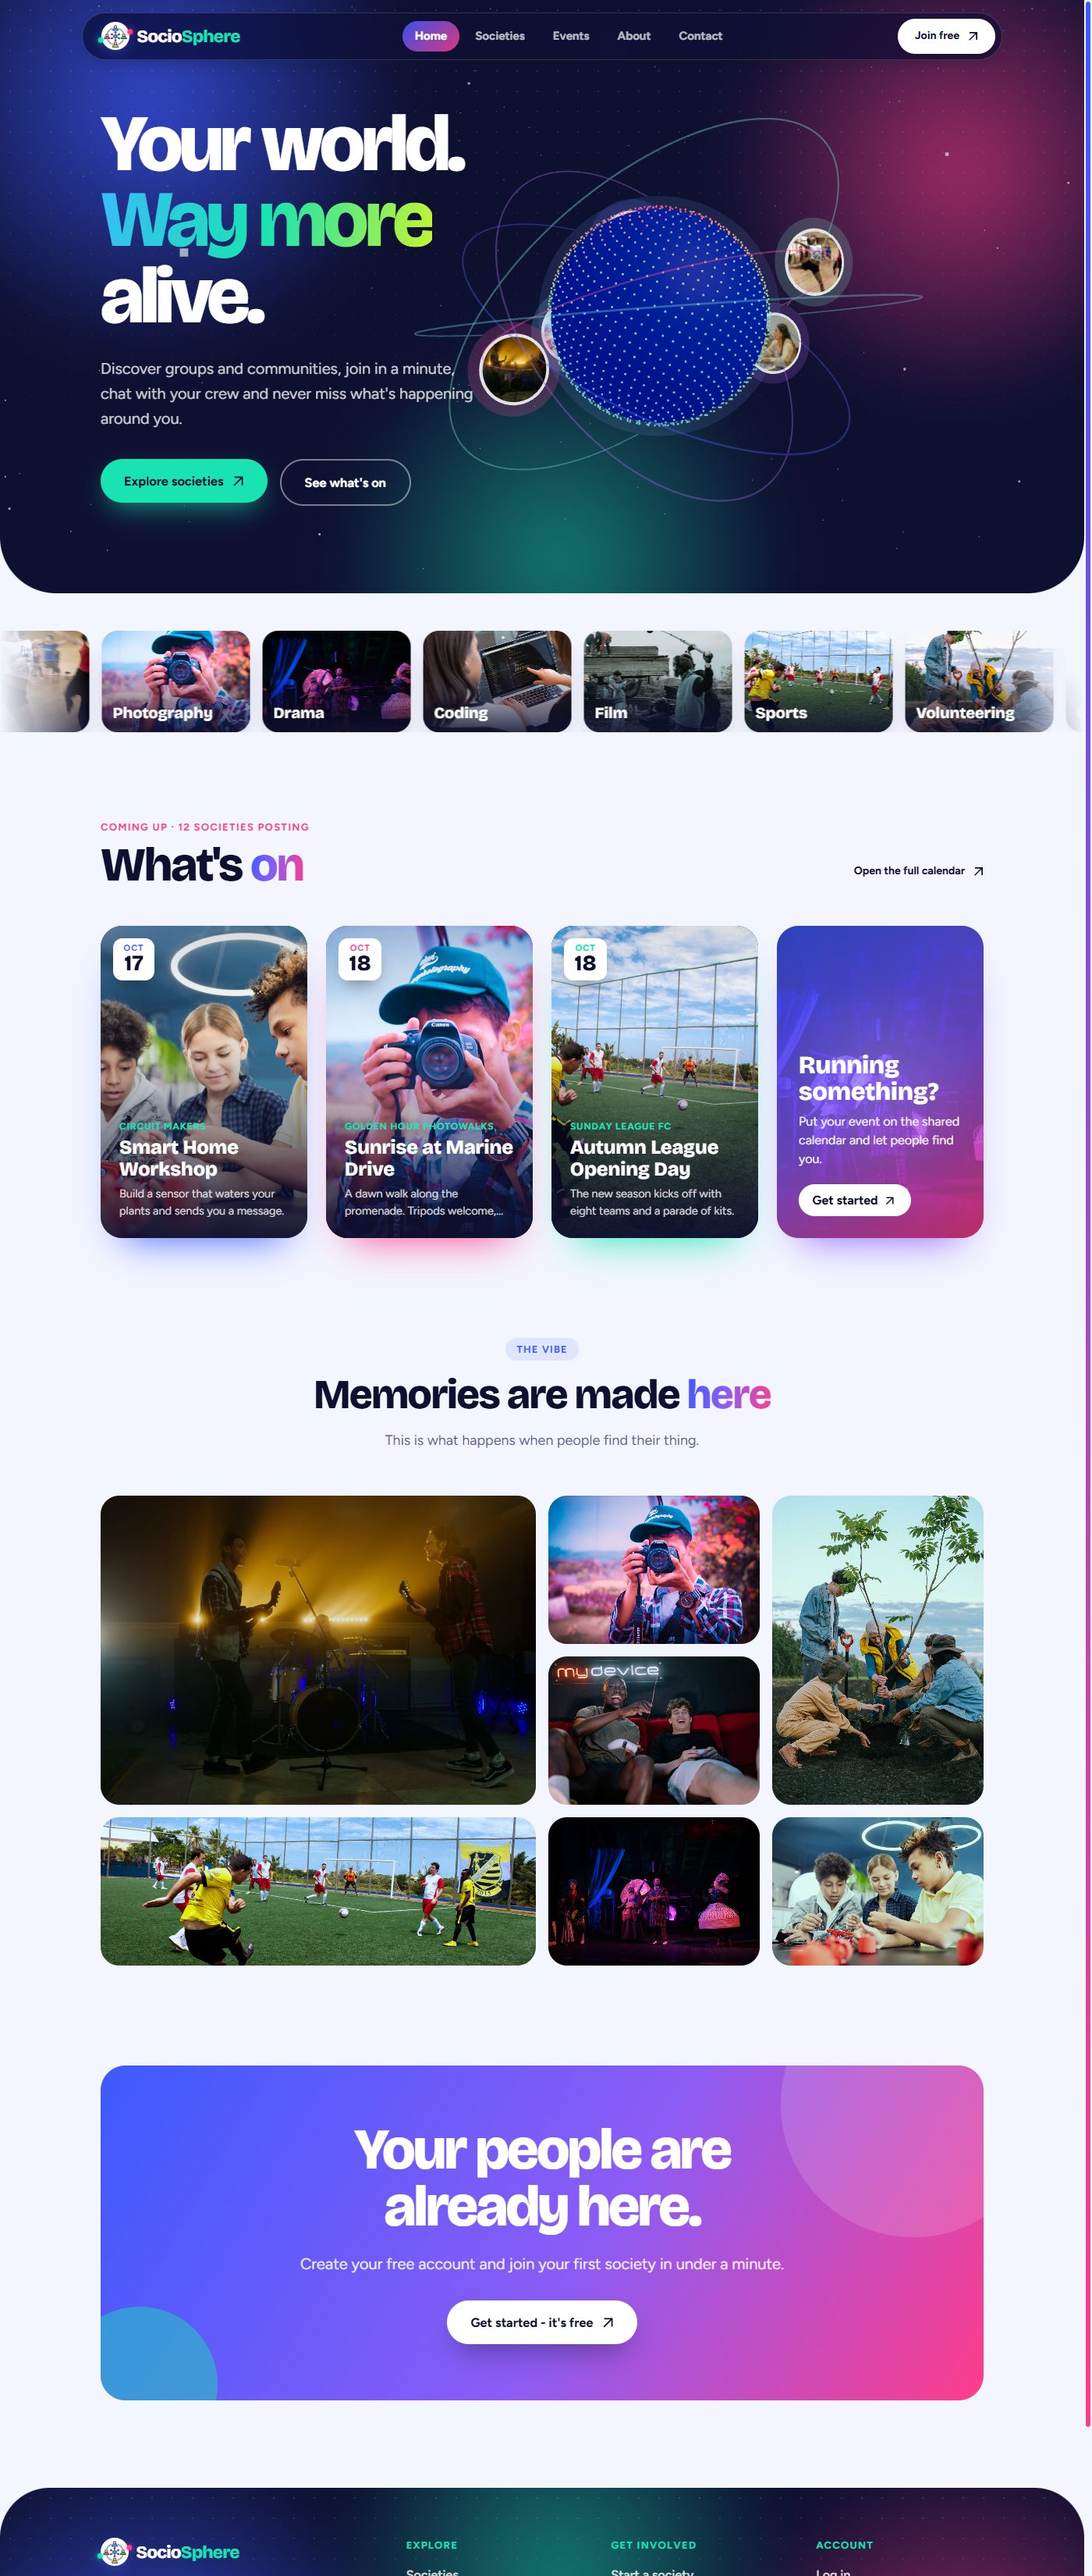
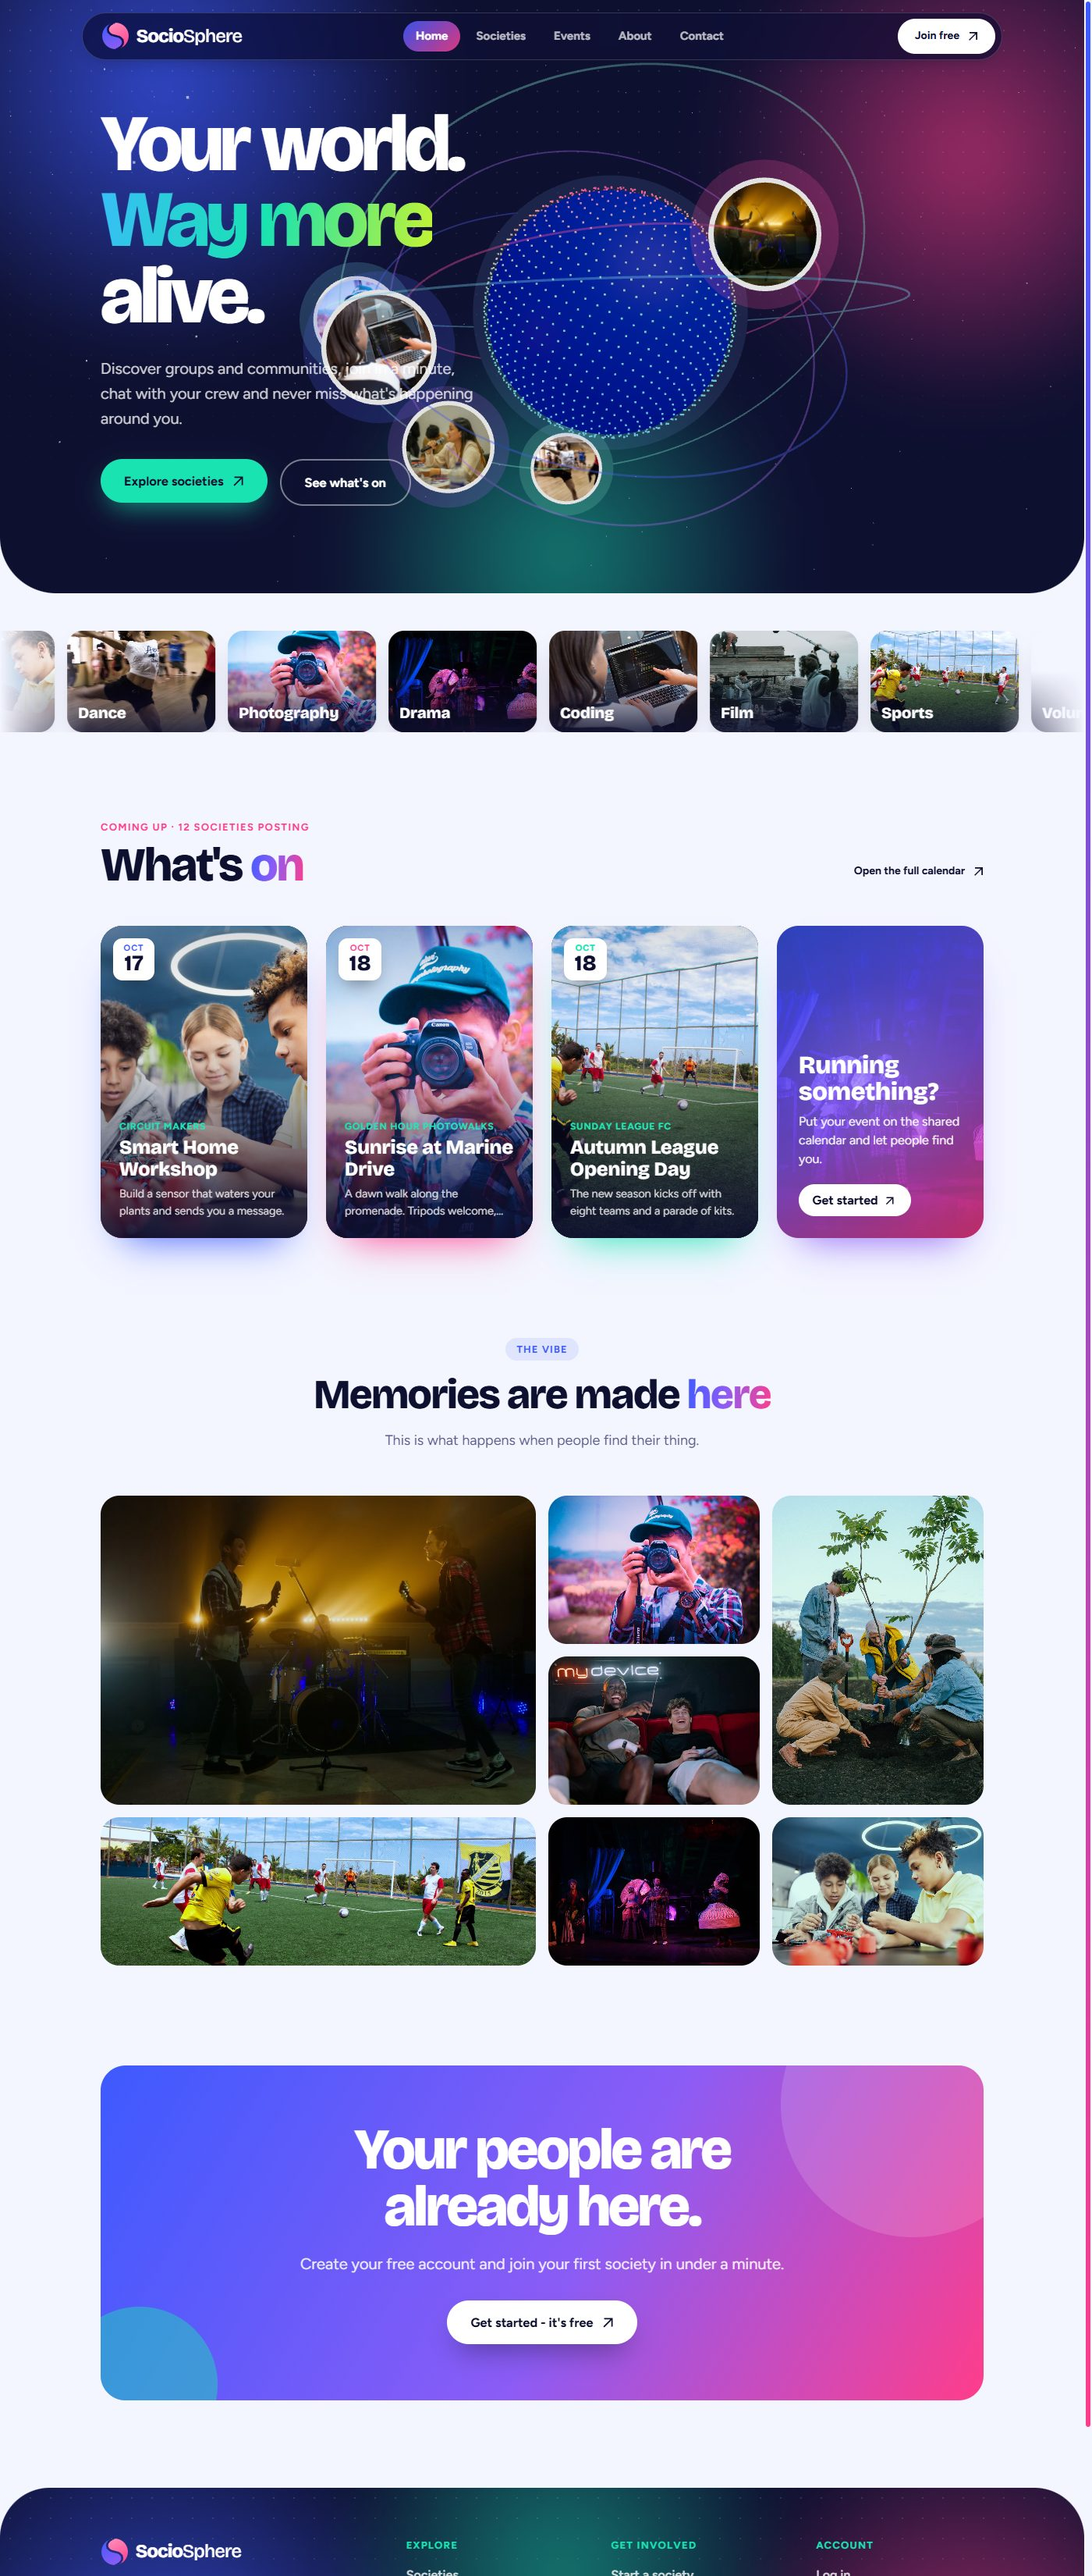
Trim README and refresh screenshots
Screenshots now show the new logo.

diff --git a/README.md b/README.md
@@ -69,26 +69,4 @@ The frontend must run on the origin set in `REACT_APP_API_URL`, otherwise reques
 
 **Sample data.** `node scripts/seed.js` in `backend/` adds 12 sample societies with events, conversations and a leadership team (all fictional; the sample people have random passwords and cannot log in). Add `--wipe-old` to first remove societies that were created before the seed, and everything attached to them. It writes a JSON backup to `backend/backups/` before deleting anything. The script is safe to re-run.
 
-## Layout
 
-```
-backend/
-  index.js                 server, sockets, route mounting
-  src/models/              Society, Event, Chat, User, forms
-  src/middleware/          auth, per-society roles (societyAccess.js)
-  src/routes/              societies, ranks and approvals, events, chat, uploads, forms
-  scripts/                 seed script and sample content
-frontend/
-  public/images, logos/    photos and society logos served as static files
-  src/lib/api.js           axios instance, query cache and data hooks
-  src/Components/          Home, Society, SocietyData, Events, Chat, User, common
-```
-
-## Notes
-
-- Event times are stored as the venue's local wall-clock time (as UTC) and shown without conversion. A real timezone per event is a planned change.
-- Chat photos are saved to `backend/uploads/` on local disk, and sockets need a long-running server. For a serverless host such as Vercel, move uploads to object storage (S3, Cloudinary) and run the socket server separately.
-- `backend/index.js` points Node at public DNS resolvers (8.8.8.8, 1.1.1.1) because some networks refuse the SRV lookups that `mongodb+srv://` needs.
-- Photos are from [Pexels](https://www.pexels.com) (free licence). The society logos are original SVGs in `frontend/public/logos`.
-
-See [PLAN.md](PLAN.md) for what is done and what is next.
